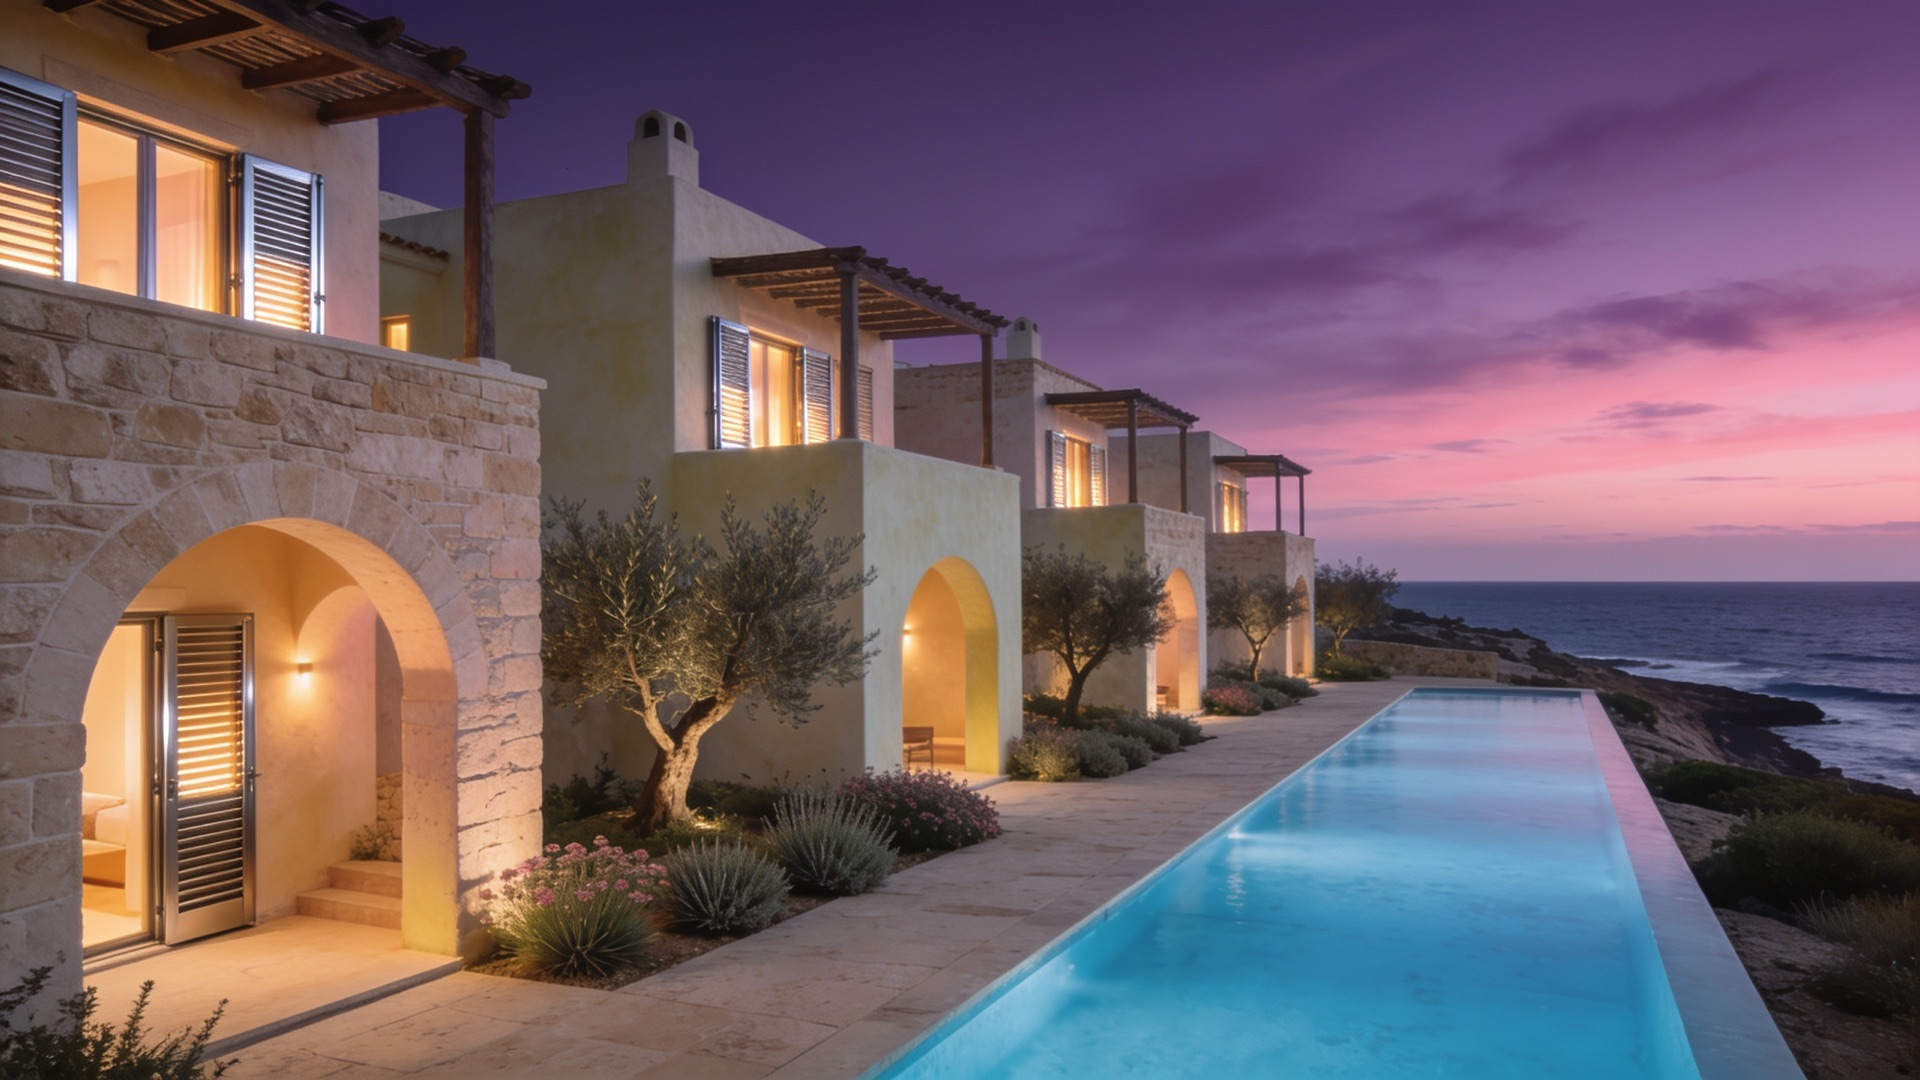
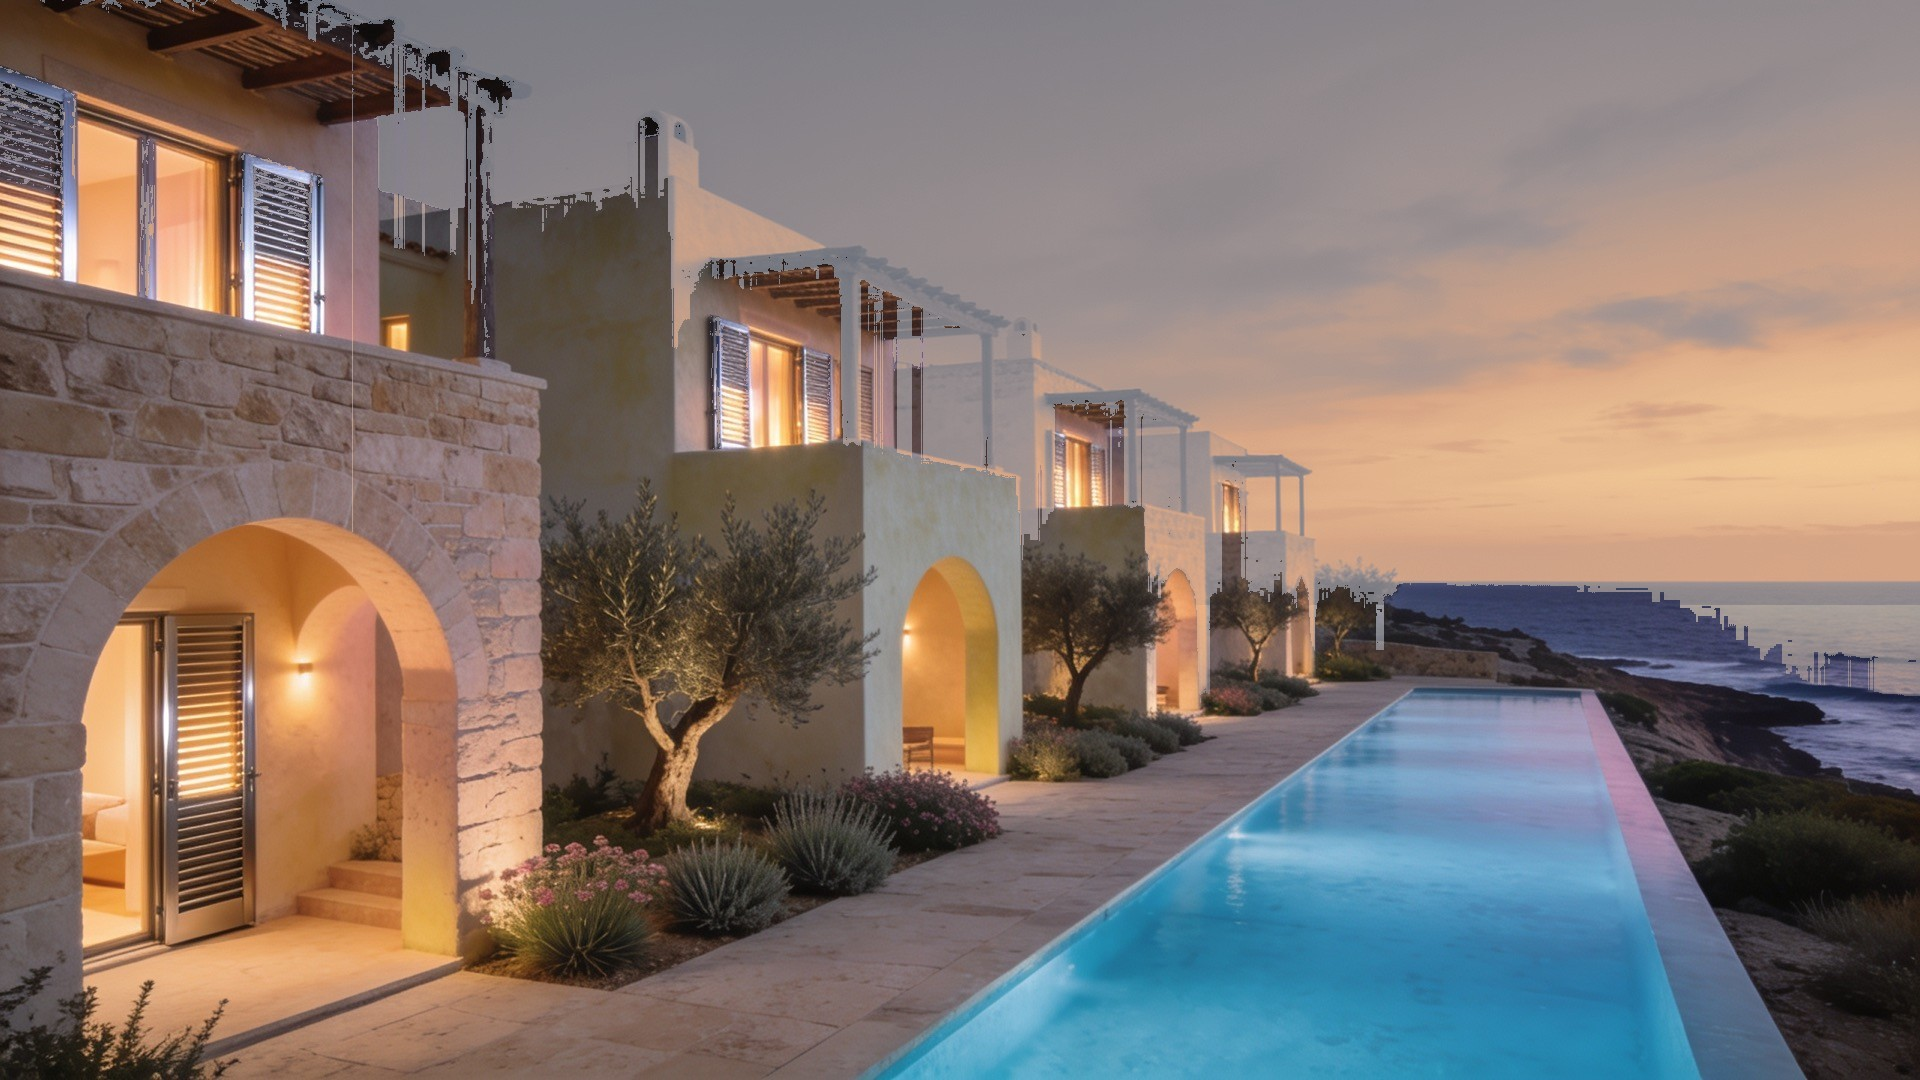
solera: warm hero sky (was purple), mobile nav declutter

diff --git a/02-solera-residence-demo/index.html b/02-solera-residence-demo/index.html
@@ -172,6 +172,7 @@ section.alt{background:var(--cream-alt)}
   section{padding:10vh 0}
   .hero h1{letter-spacing:.02em}
   .brand{font-size:22px}
+  .nav-sec{display:none}
 }
 @media (prefers-reduced-motion:reduce){
   *{animation:none!important;transition:none!important}
@@ -187,7 +188,7 @@ section.alt{background:var(--cream-alt)}
 <header id="hdr" class="on-dark">
   <a class="brand" href="#top">Solera</a>
   <nav class="nav-right">
-    <a href="#residences">Residences</a>
+    <a class="nav-sec" href="#residences">Residences</a>
     <a href="he.html">עברית</a>
     <a class="enq" href="#contact">Enquire</a>
   </nav>
